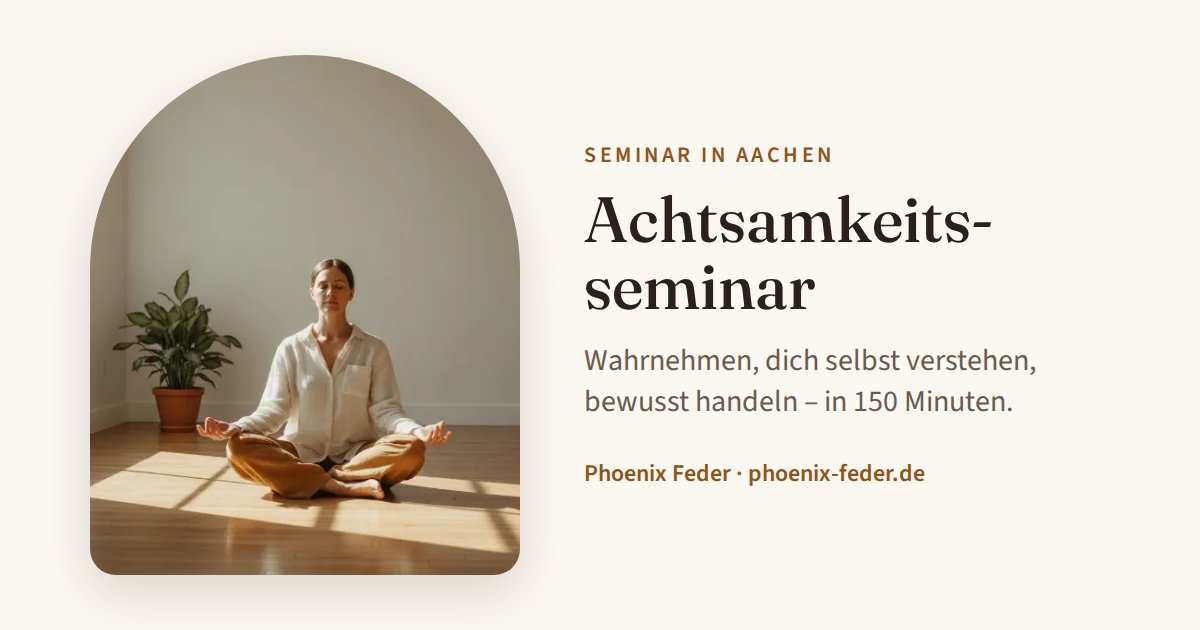
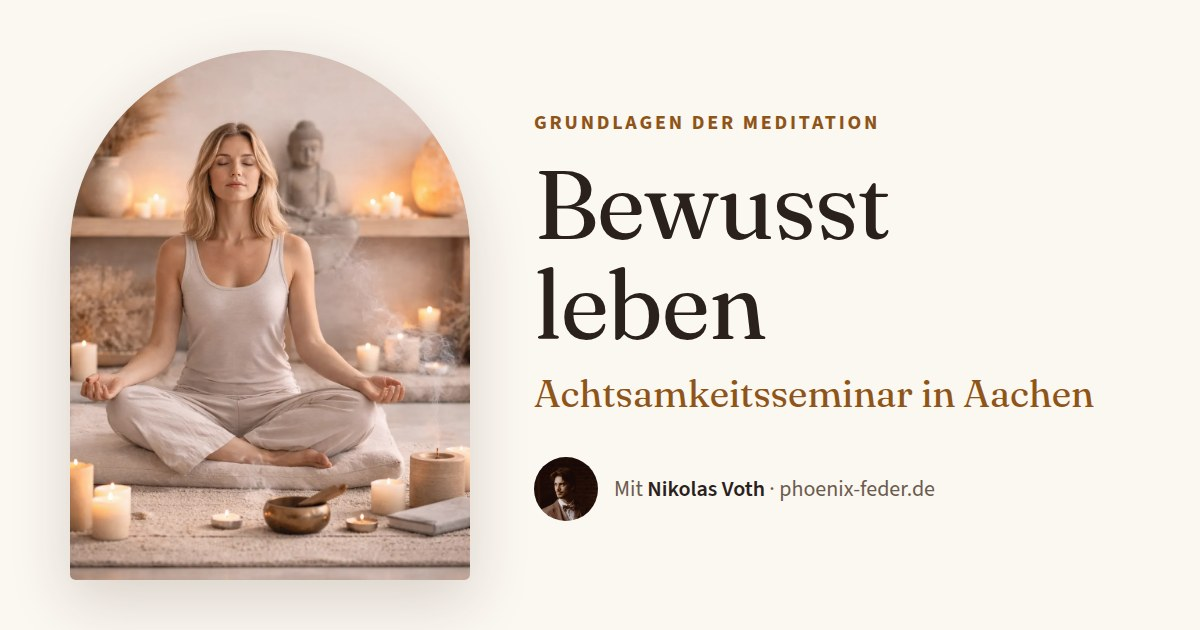
Seminarseite: kürzer und neugierig, neue Beschreibung, Schokolade statt Dattel
- Leitsatz „Bewusst leben · Grundlagen der Meditation“, Beschreibung „In
  diesem Pilotseminar schärfst du deine Wahrnehmung, lernst dich selbst
  besser kennen und übst, auch in schwierigen Situationen bewusst zu
  handeln.“ (auch Angebotskarte, Kalenderdatei, Event-Daten, Meta-Text)
- Statt Agenda mit Minuten nur „Was dich erwartet“ und eine Methodenliste;
  Gefühlston (angenehm/unangenehm/neutral) nicht mehr beschrieben.
- Drei Ebenen mit je einem Satz, Beispiele entfernt; „Was du mitnimmst“
  und „Hintergrund“ deutlich gekürzt.
- Vorgeschmack-Übung nur noch mit Schokolade.
- Link-Vorschau og-seminar.jpg neu im Stil der Werbung („Bewusst leben“),
  erzeugt von werkzeuge/werbung; die Kurzadresse /seminar/ bekommt eigene
  Vorschau-Daten, damit WhatsApp & Co. ein Bild zeigen.

Claude-Session: https://claude.ai/code/session_01UKg8erKHmN4bGUkgYxNMY5

diff --git a/inhalt/seiten/achtsamkeitsseminar.html b/inhalt/seiten/achtsamkeitsseminar.html
@@ -1,5 +1,5 @@
 titel: Achtsamkeitsseminar
-beschreibung: Achtsamkeitsseminar in Aachen mit Nikolas Voth: In 150 Minuten durch drei Ebenen der Achtsamkeit, vom Wahrnehmen bis zum bewussten Handeln. Mit Übungen und Austausch.
+beschreibung: Achtsamkeitsseminar in Aachen: Du schärfst deine Wahrnehmung, lernst dich selbst besser kennen und übst, auch in schwierigen Situationen bewusst zu handeln.
 bild: og-seminar.jpg
 ---
 <!-- Quelle: Konzept „Achtsamkeits-Seminar – Drei Ebenen der Achtsamkeit“ (PDF von Nikolas, Okt. 2026).
@@ -9,13 +9,14 @@ bild: og-seminar.jpg
 <section class="held">
   <div class="huelle held-innen">
     <div>
-      <p class="oberzeile">Seminar · Drei Ebenen der Achtsamkeit</p>
+      <p class="oberzeile">Bewusst leben · Grundlagen der Meditation</p>
       <h1>Achtsamkeitsseminar</h1>
-      <p class="gross">Mehr Gelassenheit. Mehr du. In einer Zeit voller Ablenkungen ganz im Hier und Jetzt sein und das Leben bewusst genießen.</p>
+      <!-- „Pilotseminar“ nach dem Pilot-Termin wieder herausnehmen -->
+      <p class="gross">In diesem Pilotseminar schärfst du deine Wahrnehmung, lernst dich selbst besser kennen und übst, auch in schwierigen Situationen bewusst zu handeln.</p>
       {{seminar_hinweis}}
       <div class="knopf-reihe">
         <a class="knopf" href="#anmelden">Zur Anmeldung</a>
-        <a class="knopf zweit" href="#ablauf">Ablauf ansehen</a>
+        <a class="knopf zweit" href="#ablauf">Was dich erwartet</a>
       </div>
     </div>
     <div class="held-bild">{{bild seminar-meditation "Eine Frau meditiert im Schneidersitz in einem hellen Raum" "" "eager"}}</div>
@@ -27,7 +28,7 @@ bild: og-seminar.jpg
     <div class="abschnitt-kopf">
       <p class="oberzeile">Der Kern</p>
       <h2>Nimm wahr, was jetzt ist. Verstehe es. Handle bewusst.</h2>
-      <p>Achtsamkeit heißt, ganz im Hier und Jetzt zu sein, mit allen Sinnen und ohne zu urteilen. In einer Zeit voller Ablenkungen und Möglichkeiten ist das eine Fähigkeit, die du üben kannst. Sie hilft dir, klarer zu sehen und das Leben bewusster zu genießen. Im Seminar übst du sie in drei Ebenen, die aufeinander aufbauen.</p>
+      <p>Achtsamkeit heißt, ganz im Hier und Jetzt zu sein, mit allen Sinnen und ohne zu urteilen. Das lässt sich üben. Im Seminar in drei Ebenen, die aufeinander aufbauen.</p>
     </div>
     <div class="ebenen">
       <article class="ebene">
@@ -35,8 +36,7 @@ bild: og-seminar.jpg
         <div>
           <p class="oberzeile">Ebene 1</p>
           <h3>Wahrnehmen</h3>
-          <p>Körper und Umgebung spüren. Wahrnehmung ist der Boden, aus dem alles Weitere wächst: Was spürst du gerade im Körper? Und wohin wandert deine Aufmerksamkeit?</p>
-          <p class="klein"><strong>Zum Beispiel:</strong> den Atem verfolgen: die kühle Luft beim Einatmen, die kleine Pause, die warme Luft beim Ausatmen.</p>
+          <p>Atem, Körper und Sinne: ankommen in dem, was gerade ist. Wahrnehmung ist der Boden, aus dem alles Weitere wächst.</p>
           <p class="zitat zitat-klein">„Achtsamkeit bedeutet, auf eine bestimmte Weise aufmerksam zu sein: absichtsvoll, im gegenwärtigen Moment und ohne zu urteilen.“ <span>Jon Kabat-Zinn</span></p>
         </div>
       </article>
@@ -45,8 +45,7 @@ bild: og-seminar.jpg
         <div>
           <p class="oberzeile">Ebene 2</p>
           <h3>Dich selbst verstehen</h3>
-          <p>Auslöser, Gefühle und Muster erkennen. Und merken: Das ist ein Auslöser, nicht die Wirklichkeit selbst. Du bist nicht deine Rollen und nicht deine Gedanken.</p>
-          <p class="klein"><strong>Zum Beispiel:</strong> Jeden Sonntagabend spürst du Spannung in den Schultern. Du erkennst, dass sie mit der Sorge vor der neuen Woche zusammenhängt.</p>
+          <p>Erkennen, was in dir passiert, und merken: Du bist mehr als deine Gedanken.</p>
           <p class="zitat zitat-klein">„Nicht die Dinge selbst beunruhigen die Menschen, sondern ihre Urteile über die Dinge.“ <span>Epiktet</span></p>
         </div>
       </article>
@@ -55,8 +54,7 @@ bild: og-seminar.jpg
         <div>
           <p class="oberzeile">Ebene 3</p>
           <h3>Bewusst handeln</h3>
-          <p>Zwischen Reiz und Reaktion innehalten und aus Klarheit statt aus Gewohnheit handeln.</p>
-          <p class="klein"><strong>Zum Beispiel:</strong> Der Kommentar eines Kollegen frustriert dich. Statt zurückzuschnappen, bemerkst du das Gefühl, verstehst, woher es kommt, und antwortest mit Neugier statt Abwehr.</p>
+          <p>Zwischen Reiz und Reaktion innehalten und aus Klarheit statt aus Gewohnheit handeln, auch wenn es schwierig wird.</p>
           <p class="zitat zitat-klein">„Zwischen Reiz und Reaktion gibt es einen Moment. Die Macht, in diesem Moment bewusst zu handeln, ist Freiheit.“ <span>inspiriert durch Viktor Frankl</span></p>
         </div>
       </article>
@@ -67,17 +65,21 @@ bild: og-seminar.jpg
 <section class="abschnitt" id="ablauf">
   <div class="huelle-schmal">
     <div class="abschnitt-kopf">
-      <p class="oberzeile">Ablauf</p>
-      <h2>So ist das Seminar aufgebaut</h2>
+      <p class="oberzeile">Was dich erwartet</p>
+      <h2>Ein Nachmittag in kleiner Runde</h2>
+      <p>Übungen, kurze Impulse und Austausch, dazwischen eine Teepause. Ein Begleitbogen führt dich durch den Nachmittag, und für deine Fragen ist am Ende Zeit. Was genau passiert, erlebst du am besten selbst.</p>
     </div>
-    <ol class="ablauf">
-      <li><strong>Ankommen und Intention setzen <span class="minuten">20 Min.</span></strong><span>Gemeinsame Gesprächsregeln, eine kurze Kennenlernrunde und deine persönliche Intention. Die schreibst du nur für dich auf einen Begleitbogen, der dich durch den Nachmittag führt und auf dem du jederzeit Fragen notieren kannst. Danach zwei Stücke Schokolade: eines einfach genießen, eines ganz bewusst.</span><span class="methodik"><b>Methodik:</b> Intentionsklärung; Redekreis; achtsames Essen nach dem Vorbild der Rosinen-Übung aus MBSR.</span></li>
-      <li><strong>Wahrnehmen: Körper und Umgebung <span class="minuten">28 Min.</span></strong><span>Mit allen fünf Sinnen ankommen und den Unterschied zwischen Wahrnehmen und Bewerten entdecken. Dann der Atem, das Tor zum Leben, und der Körper: Was spürst du, wohin wandert deine Aufmerksamkeit?</span><span class="methodik"><b>Methodik:</b> Fünf-Sinne-Übung (5-4-3-2-1); Atemmeditation im ruhigen Verweilen (Shamatha); Body Scan (systematisches Durchwandern des Körpers, aus MBSR); Progressive Muskelentspannung nach Edmund Jacobson (PMR). Schwerpunkt: Körperwahrnehmung (Interozeption) und Lenkung der Aufmerksamkeit.</span></li>
-      <li class="pause"><strong>Pause mit Tee <span class="minuten">12 Min.</span></strong></li>
-      <li><strong>Dich selbst verstehen: Auslöser, Gefühle, Muster <span class="minuten">35 Min.</span></strong><span>Zusammenhänge im eigenen Erleben erkennen. Fast jeder Eindruck bekommt in Sekundenbruchteilen einen Stempel: angenehm, unangenehm oder neutral. Daraus entstehen drei alte Muster: festhalten, loswerden, übersehen. Dann die Frage: Wer bin ich eigentlich? Du lebst viele Rollen, ob als Tochter oder Sohn, als Mitarbeiterin oder Manager, und bist doch keine davon. Du beobachtest deine Gedanken und sortierst sie: Vergangenheit, Zukunft, Bewerten … Wer sie beobachten kann, ist mehr als sie. Aus diesem Abstand heraus findest du deine Werte.</span><span class="methodik"><b>Methodik:</b> Achtsamkeit für den Gefühlston (angenehm, unangenehm, neutral) und die drei Grundmuster; Rollen-Übung; Gedanken beobachten und benennen; das beobachtende Selbst („Selbst als Kontext“ aus der Akzeptanz- und Commitment-Therapie, ACT); kognitive Defusion, ebenfalls aus der ACT: „Ich bemerke, dass ich den Gedanken habe, …“; Wertespiel (Sortieren bis zu acht Kernwerten); Austausch zu zweit.</span></li>
-      <li><strong>Bewusst handeln: innehalten und entscheiden <span class="minuten">20 Min.</span></strong><span>Verhalten aktiv wählen: zwischen Reiz und Reaktion den Moment finden, in dem du entscheidest. Du übst das an einer Situation aus deinem eigenen Leben, nach deinen Werten.</span><span class="methodik"><b>Methodik:</b> Werte-Pantomime in Zweiergruppen; Innehalten in fünf Schritten (entspannen, annehmen, pausieren, nachforschen mit Selbstmitgefühl, entscheiden); Austausch zu zweit.</span></li>
-      <li><strong>Integration, Fragen und Abschluss <span class="minuten">35 Min.</span></strong><span>Ein Blick zurück auf deine Intention und deine Notizen: Was nimmst du mit? Dazu die richtige Praxis für den Alltag: ein bewusster Atemzug und der Mini-Check „Was ist mir gerade wichtig?“. Zeit für all deine Fragen, eine Kontemplation über Dankbarkeit und zum Schluss eine gemeinsame Runde.</span><span class="methodik"><b>Methodik:</b> Übertragung auf eine konkrete Situation aus deinem Alltag; Fragerunde; Dankbarkeits-Kontemplation; Abschlussrunde im Redekreis; Feedback.</span></li>
-    </ol>
+    <h3 class="methoden-titel">Methoden, mit denen wir arbeiten</h3>
+    <ul class="methoden">
+      <li>Atemmeditation (Shamatha)</li>
+      <li>Body Scan</li>
+      <li>Progressive Muskelentspannung</li>
+      <li>Achtsames Essen</li>
+      <li>Übungen aus der Akzeptanz- und Commitment-Therapie</li>
+      <li>Wertespiel</li>
+      <li>Innehalten in schwierigen Momenten</li>
+      <li>Dankbarkeit</li>
+    </ul>
   </div>
 </section>
 
@@ -85,20 +87,19 @@ bild: og-seminar.jpg
   <div class="huelle-schmal">
     <div class="abschnitt-kopf">
       <p class="oberzeile">Ein Vorgeschmack</p>
-      <h2>Eine Dattel, ganz bewusst</h2>
-      <p>So kann das Seminar beginnen. Probier es gleich aus, mit einer Dattel oder einem Stück dunkler Schokolade. Dauer: etwa fünf Minuten.</p>
+      <h2>Ein Stück Schokolade, ganz bewusst</h2>
+      <p>So kann das Seminar beginnen. Probier es gleich aus, mit einem Stück dunkler Schokolade. Dauer: etwa fünf Minuten.</p>
     </div>
     <details class="anleitung">
       <summary>Anleitung öffnen</summary>
       <ol>
-        <li>Nimm eine Dattel in die Hand. Beiß noch nicht hinein. Schau sie dir zuerst nur an: ihre Form, ihre Farbe, die Oberfläche. Vielleicht siehst du kleine Falten oder glänzende Stellen.</li>
-        <li>Halte kurz inne und denk darüber nach, wo sie herkommt. Diese Dattel ist an einer Palme gewachsen. Monatelang hat sie Sonne aufgenommen, Wasser aus der Erde gezogen und langsam Frucht gebildet. Menschen haben sie geerntet, getrocknet, verpackt und hierhergebracht.</li>
-        <li>Führ sie langsam zur Nase und nimm einen Moment den Duft wahr.</li>
-        <li>Nimm einen kleinen, langsamen Bissen. Lass die Dattel einen Moment im Mund. Spür die Textur, die Süße, wie sie sich langsam entfaltet.</li>
-        <li>Kau langsam und nimm wahr, wie sich der Geschmack verändert. Und wenn du schluckst, nimm auch diesen Moment bewusst wahr.</li>
+        <li>Nimm ein Stück Schokolade in die Hand. Iss es noch nicht. Schau es dir zuerst nur an: die Form, die Farbe, die Oberfläche. Vielleicht siehst du feine Rillen oder einen matten Glanz.</li>
+        <li>Halte kurz inne und denk darüber nach, wo sie herkommt. Sie beginnt mit einer Kakaobohne, die in warmen Regionen der Welt an einem Baum reift. Menschen haben sie geerntet, fermentiert, getrocknet, geröstet und hierhergebracht.</li>
+        <li>Führ das Stück langsam zur Nase und nimm einen Moment den Duft wahr.</li>
+        <li>Leg es auf die Zunge und lass es schmelzen, bevor du beißt. Spür die Textur und wie sich der Geschmack entfaltet. Vielleicht bitter, vielleicht fruchtig.</li>
+        <li>Nimm wahr, wie sich der Geschmack verändert. Und wenn du schluckst, nimm auch diesen Moment bewusst wahr.</li>
       </ol>
       <p class="zitat">Ein so kleiner Moment, und doch steckt so viel Leben darin.</p>
-      <p class="klein"><strong>Mit dunkler Schokolade:</strong> Sie beginnt mit einer Kakaobohne, die in warmen Regionen der Welt reift und geerntet, fermentiert, getrocknet und geröstet wird. Lass das Stück erst auf der Zunge schmelzen, bevor du beißt. Vielleicht schmeckt es bitter, vielleicht fruchtig.</p>
     </details>
   </div>
 </section>
@@ -107,15 +108,12 @@ bild: og-seminar.jpg
   <div class="huelle">
     <div class="abschnitt-kopf">
       <p class="oberzeile">Was du mitnimmst</p>
-      <h2>Einfache Werkzeuge für deinen Alltag</h2>
+      <h2>Kleine Werkzeuge für jeden Tag</h2>
     </div>
     <ul class="tipps">
-      <li><strong>Ein bewusster Atemzug.</strong> Nicht sofort reagieren, kurz innehalten, den Körper spüren.</li>
-      <li><strong>Der Mini-Check.</strong> „Was ist mir gerade wichtig?“ Dann verbindest du dich mit deinem Wert.</li>
-      <li><strong>Deine Werte als Kompass.</strong> Die acht Werte aus dem Wertespiel helfen dir bei Entscheidungen.</li>
-      <li><strong>Dir Zeit lassen.</strong> Du musst nicht sofort handeln. Bewusstes Handeln braucht manchmal einen Moment mehr.</li>
-      <li><strong>Gefühle sind Wellen.</strong> Sie kommen und klingen ab, wenn du sie nicht immer neu anfachst.</li>
-      <li><strong>Realistisch bleiben.</strong> Du wirst es oft vergessen. Ein bewusster Moment am Tag reicht.</li>
+      <li><strong>Übungen für unterwegs.</strong> Kurz genug für den Alltag und hilfreich, wenn es schwierig wird.</li>
+      <li><strong>Mehr Klarheit über dich.</strong> Was in dir passiert und was dir wirklich wichtig ist.</li>
+      <li><strong>Einen Moment mehr Raum.</strong> Zwischen dem, was passiert, und dem, wie du reagierst.</li>
     </ul>
   </div>
 </section>
@@ -127,11 +125,9 @@ bild: og-seminar.jpg
       <h2>Worauf das Seminar aufbaut</h2>
     </div>
     <ul class="tipps">
-      <li><strong>Wahrnehmen:</strong> Körperwahrnehmung, Wahrnehmung der Umgebung und das bewusste Lenken der Aufmerksamkeit bilden die Grundlage der Achtsamkeitspraxis, wie Jon Kabat-Zinn sie mit dem Programm MBSR (Stressbewältigung durch Achtsamkeit) geprägt hat.</li>
-      <li><strong>Dich selbst verstehen:</strong> Stress entsteht wesentlich durch unsere Bewertung einer Situation, nicht allein durch das Ereignis (Richard Lazarus). Wer seine Gefühle und Gedanken klarer erkennt, kann diese Bewertung bemerken. Schon vor jeder Reaktion färbt sich ein Eindruck angenehm, unangenehm oder neutral. Die buddhistische Lehre sieht darin die Wurzel von Anhaftung, Abneigung und Unwissenheit.</li>
-      <li><strong>Wer bin ich?</strong> Der Buddhismus lehrt, dass weder Körper noch Gefühle noch Gedanken ein festes Ich sind (Nicht-Selbst, anattā). Die Akzeptanz- und Commitment-Therapie nennt die Perspektive, aus der du Gedanken bemerkst, statt in ihnen zu stecken, das beobachtende Selbst.</li>
-      <li><strong>Bedürfnisse und Sehnsüchte:</strong> Nach Abraham Maslow lassen sich Mangelbedürfnisse wie Sicherheit, Zugehörigkeit und Anerkennung stillen. Selbstverwirklichung und Transzendenz dagegen sind Sehnsüchte, die nie ganz gestillt werden. Je mehr wir ihnen folgen, desto lebendiger werden sie. Achtsamkeit hilft, beides zu unterscheiden und eine Sehnsucht nicht mit immer mehr vom Gleichen stillen zu wollen.</li>
-      <li><strong>Bewusst handeln:</strong> Psychologische Flexibilität heißt, nach den eigenen Werten zu handeln, auch wenn innen gerade viel los ist (Steven C. Hayes, Akzeptanz- und Commitment-Therapie). Achtsames Wahrnehmen kann auch eingefahrene Gewohnheitsschleifen lockern (Judson Brewer).</li>
+      <li><strong>Wahrnehmen:</strong> Die Übungen bauen auf der Achtsamkeitspraxis auf, wie Jon Kabat-Zinn sie mit dem Programm MBSR (Stressbewältigung durch Achtsamkeit) geprägt hat.</li>
+      <li><strong>Dich selbst verstehen:</strong> Stress entsteht wesentlich durch unsere Bewertung einer Situation, nicht allein durch das Ereignis (Richard Lazarus). Wer Gedanken und Gefühle klarer erkennt, kann diese Bewertung bemerken.</li>
+      <li><strong>Bewusst handeln:</strong> Nach den eigenen Werten handeln, auch wenn innen gerade viel los ist. Die Akzeptanz- und Commitment-Therapie nennt das psychologische Flexibilität (Steven C. Hayes).</li>
     </ul>
   </div>
 </section>

diff --git a/werkzeuge/werbung/vorlage.html b/werkzeuge/werbung/vorlage.html
@@ -72,6 +72,15 @@ h1, .unter, .fakt span, .szene p { text-wrap: balance; }
 .story .anmelden strong { font-size: 46px; }
 .story .anmelden .adresse { font-size: 30px; margin-top: 8px; }
 
+/* ---------- Link-Vorschau 1200 × 630 (WhatsApp, Social Media) ---------- */
+.vorschau { width: 1200px; height: 630px; padding: 50px 80px 50px 70px; display: grid; grid-template-columns: 400px 1fr; column-gap: 64px; align-items: center; }
+.vorschau .bogen { height: 530px; }
+.vorschau .oberzeile { font-size: 20px; margin-bottom: 18px; }
+.vorschau h1 { font-size: 96px; }
+.vorschau .unter { font-size: 38px; margin-top: 16px; }
+.vorschau .leiter { gap: 16px; margin-top: 40px; font-size: 22px; }
+.vorschau .leiter img { width: 64px; height: 64px; }
+
 /* ---------- Plakat DIN A4 ---------- */
 @page { size: A4; margin: 0; }
 .plakat { width: 210mm; height: 297mm; padding: 16mm 17mm 14mm; display: flex; flex-direction: column; }

diff --git a/stil.css b/stil.css
@@ -243,6 +243,9 @@ p { margin: 0 0 1em; }
 .chips { display: flex; flex-wrap: wrap; gap: 0.5rem; margin: -0.5rem 0 2rem; }
 .chips a { padding: 0.45rem 0.95rem; border: 1px solid var(--linie); border-radius: 999px; color: var(--text); text-decoration: none; font-size: 0.95rem; background: var(--karte); }
 .chips a:hover { border-color: var(--akzent-hell); }
+.methoden-titel { font-size: 1.15rem; margin: 0 0 0.8rem; }
+.methoden { display: flex; flex-wrap: wrap; gap: 0.5rem; list-style: none; padding: 0; margin: 0; }
+.methoden li { padding: 0.45rem 0.95rem; border: 1px solid var(--linie); border-radius: 999px; background: var(--karte); font-size: 0.95rem; }
 .chips a[aria-current] { background: var(--akzent); border-color: var(--akzent); color: var(--auf-akzent); }
 
 /* Impuls für heute */

diff --git a/werkzeuge/werbung/rendern.js b/werkzeuge/werbung/rendern.js
@@ -28,6 +28,13 @@ async function bereit(seite) {
     console.log("✓", aus);
   }
 
+  const vorschau = await browser.newPage({ viewport: { width: 1200, height: 630 } });
+  await vorschau.goto(datei("vorschau"));
+  await bereit(vorschau);
+  await vorschau.screenshot({ path: path.join(ziel, "og-seminar.jpg"), type: "jpeg", quality: 88 });
+  await vorschau.close();
+  console.log("✓ og-seminar.jpg");
+
   const plakat = await browser.newPage({ viewport: { width: 794, height: 1123 }, deviceScaleFactor: 2 });
   await plakat.goto(datei("plakat"));
   await bereit(plakat);

diff --git a/bauen.py b/bauen.py
@@ -596,7 +596,7 @@ def seminar_ics(t):
     jetzt = datetime.now(timezone.utc)
     stempel = jetzt.strftime("%Y%m%dT%H%M%SZ")
     beschreibung = " ".join(x for x in (
-        "Drei Ebenen der Achtsamkeit: wahrnehmen, dich selbst verstehen, bewusst handeln.", t["ort_hinweis"],
+        "Grundlagen der Meditation. Du schärfst deine Wahrnehmung, lernst dich selbst besser kennen und übst, auch in schwierigen Situationen bewusst zu handeln.", t["ort_hinweis"],
         f"Mitbringen: {t['mitbringen']}" if t.get("mitbringen") else "", f"{E['domain']}/achtsamkeitsseminar/") if x)
     zeilen = ["BEGIN:VCALENDAR", "VERSION:2.0", "PRODID:-//Phoenix Feder//Seminar//DE", "CALSCALE:GREGORIAN", "METHOD:PUBLISH",
               "BEGIN:VEVENT", f"UID:seminar-{t['datum']}@phoenix-feder.de", f"DTSTAMP:{stempel}", f"LAST-MODIFIED:{stempel}",
@@ -612,7 +612,7 @@ def seminar_ld(t):
     """Termin als schema.org-Event, damit Suchmaschinen ihn als Veranstaltung erkennen."""
     o = t["ort"]
     ld = {"@context": "https://schema.org", "@type": "Event", "name": t["name"],
-          "description": "Drei Ebenen der Achtsamkeit, vom Wahrnehmen bis zum bewussten Handeln. Mit Übungen und Austausch.",
+          "description": "Grundlagen der Meditation. Du schärfst deine Wahrnehmung, lernst dich selbst besser kennen und übst, auch in schwierigen Situationen bewusst zu handeln.",
           "startDate": t["start_iso"], "endDate": t["ende_iso"],
           "eventAttendanceMode": "https://schema.org/OfflineEventAttendanceMode", "eventStatus": "https://schema.org/EventScheduled",
           "location": {"@type": "Place", "name": o["name"], "address": {"@type": "PostalAddress", "streetAddress": o["strasse"],
@@ -823,10 +823,17 @@ def schreiben(pfad_url, text):
     ziel.write_text(text, encoding="utf-8")
 
 
-def umleitung(alt, neu):
-    """GitHub Pages kann keine Server-Umleitungen; alte Wix-Adressen leiten per HTML weiter."""
+def umleitung(alt, neu, vorschau=None):
+    """GitHub Pages kann keine Server-Umleitungen; alte Wix-Adressen leiten per HTML weiter.
+    vorschau = (Titel, Beschreibung, Bilddatei): Link-Vorschau für Messenger, die der Weiterleitung nicht folgen."""
+    og = ""
+    if vorschau:
+        t, b, bild_datei = vorschau
+        og = (f'<meta property="og:title" content="{esc(t)}"><meta property="og:description" content="{esc(b)}">'
+              f'<meta property="og:image" content="{E["domain"]}/bilder/{bild_datei}"><meta property="og:url" content="{E["domain"]}{alt}">'
+              '<meta property="og:type" content="website"><meta name="twitter:card" content="summary_large_image">\n')
     schreiben(alt, f"""<!doctype html><html lang="de"><head><meta charset="utf-8">
-<title>Weiterleitung</title><link rel="canonical" href="{E['domain']}{neu}">
+<title>Weiterleitung</title><link rel="canonical" href="{E['domain']}{neu}">{og}
 <meta name="robots" content="noindex"><meta http-equiv="refresh" content="0; url={"../" * (alt.count("/") - 1)}{neu.lstrip("/")}">
 </head><body><p><a href="{neu}">Weiter</a></p></body></html>
 """)
@@ -965,7 +972,8 @@ def main():
     for alt in ("/booking-calendar/", "/service-page/", "/services-4/"):
         umleitung(alt, "/book-online/")
     umleitung("/post/sehen-was-ist/", "/post/die-realitaet-sehen/")  # umbenannt am 14.10.2026
-    umleitung("/seminar/", "/achtsamkeitsseminar/#anmelden")  # Kurzadresse für QR-Code und Werbung
+    umleitung("/seminar/", "/achtsamkeitsseminar/#anmelden",  # Kurzadresse für QR-Code und Werbung
+              ("Achtsamkeitsseminar: Bewusst leben", "Grundlagen der Meditation in Aachen. Jetzt anmelden.", "og-seminar.jpg"))
 
     (AUSGABE / "feed.xml").write_text(feed(artikel), encoding="utf-8")
     shutil.copy(AUSGABE / "feed.xml", AUSGABE / "blog-feed.xml")  # alte Wix-Adresse des Feeds

diff --git a/werkzeuge/werbung/erzeugen.py b/werkzeuge/werbung/erzeugen.py
@@ -3,7 +3,8 @@
 
 Aufruf:  python3 werkzeuge/werbung/erzeugen.py [Ausgabeordner]
 Ergebnis: instagram-beitrag.png (1080 × 1350), story-status.png (1080 × 1920), kurzvideo.mp4 (12 s, ohne Ton),
-          plakat-a4.pdf (druckfertig, skaliert auch auf A3) und plakat-a4.png (Vorschau).
+          plakat-a4.pdf (druckfertig, skaliert auch auf A3), plakat-a4.png (Vorschau) und og-seminar.jpg
+          (Link-Vorschau 1200 × 630, wird auch nach bilder/ kopiert).
 
 Termin, Ort und Plätze kommen aus inhalt/seminar.json, also nach einem neuen Termin einfach neu erzeugen.
 Der QR-Code führt auf <domain>/seminar/ (leitet zur Anmeldung weiter, siehe bauen.py).
@@ -108,6 +109,11 @@ def main():
   <p class="text">{esc(beschreibung)}</p>
   <div class="unten"><div>{fakten_kurz}{leiter}</div>{anmelden("Scannen und anmelden")}</div>
 </div>""",
+        "vorschau": f"""<div class="blatt vorschau">
+  <div class="bogen"><img src="{bild}" alt=""></div>
+  <div><p class="oberzeile">{esc(oberzeile)}</p><h1>{titel}</h1><p class="unter">Achtsamkeitsseminar in {esc(o['stadt'])}</p>
+  <div class="leiter"><img src="{portrait}" alt=""><span>Mit <strong>Nikolas Voth</strong> · {esc(kurz_url.split('/')[0])}</span></div></div>
+</div>""",
         "video": f"""<div class="blatt reel">
   <div class="foto"><img src="{bild}" alt=""></div><div class="schleier"></div>
   <div class="szene s1"><h1>Ständig abgelenkt?</h1><p>Zu viel im Kopf, zu wenig im Moment.</p></div>
@@ -132,6 +138,10 @@ def main():
     subprocess.run(["node", str(HIER / "rendern.js"), str(ziel)], check=True, env=umgebung)
     for f in ziel.glob("_*.html"):
         f.unlink()
+    # Link-Vorschau der Seminarseite (og:image) gleich in die Website übernehmen
+    import shutil
+    shutil.copy(ziel / "og-seminar.jpg", WURZEL / "bilder" / "og-seminar.jpg")
+    print("bilder/og-seminar.jpg aktualisiert (danach bauen.py und committen)")
     print(f"Fertig: {ziel}  (QR-Code → {url})")
 
 

diff --git a/CLAUDE.md b/CLAUDE.md
@@ -186,11 +186,13 @@ Quiz mit Kontakt und Seminar-Anmeldung – bei viel Andrang auf einen eigenen Sc
 
 ## Achtsamkeitsseminar (`/achtsamkeitsseminar/`)
 
-Inhalt aus Nikolas’ Konzept-PDF (Drei Ebenen: Wahrnehmen, Dich selbst verstehen, Bewusst handeln; Ablauf in fünf
-Schritten mit Minuten und „Methodik“ (Fünf Sinne, Atemmeditation/Shamatha, Body Scan, PMR nach Jacobson, Gefühlston
-angenehm/unangenehm/neutral, Gedanken beobachten, ACT-Defusion, Wertespiel, Innehalten, Fragerunde); ein Begleitbogen führt durch den
-Nachmittag (Intention, Notizen, Fragen). Bewusst ohne „Gewahrsein“ – bei Wahrnehmen und Bemerken bleiben;
-Dattel-/Schokoladen-Übung; Hintergrund mit Kabat-Zinn, Lazarus, Hayes, Brewer). Bilder `seminar-*` stammen aus
+Inhalt aus Nikolas’ Konzept-PDF (Drei Ebenen: Wahrnehmen, Dich selbst verstehen, Bewusst handeln). Die Seite soll
+neugierig machen und nicht zu viel vorwegnehmen (Nikolas, Okt. 2026): keine Agenda mit Minuten, nur „Was dich
+erwartet“ (Nachmittag in kleiner Runde, Teepause, Begleitbogen) und eine Liste der Methoden. Den Gefühlston
+(angenehm/unangenehm/neutral) nicht auf der Seite beschreiben, der Teil wird noch überarbeitet. Leitsatz „Bewusst leben“,
+Text „In diesem Pilotseminar schärfst du deine Wahrnehmung, lernst dich selbst besser kennen und übst, auch in
+schwierigen Situationen bewusst zu handeln.“ (nach dem Pilot „Pilotseminar“ herausnehmen, auch in der Werbung).
+Vorgeschmack-Übung nur mit Schokolade (keine Dattel). Hintergrund kurz: Kabat-Zinn, Lazarus, Hayes. Bilder `seminar-*` stammen aus
 dem PDF. Termin nur in `inhalt/seminar.json` pflegen: Seite (Hinweis oben, Anmeldung `#anmelden`), Angebotskarte
 (`"seminar": true`), Kalenderdatei `/achtsamkeitsseminar/termin.ics` und Bestätigungsseite `/angemeldet/` folgen daraus.
 Anmeldung: nur Vorname + E-Mail über Web3Forms; Nikolas nimmt 2–3 Anmeldungen mehr an als Plätze (Absagen-Puffer)
